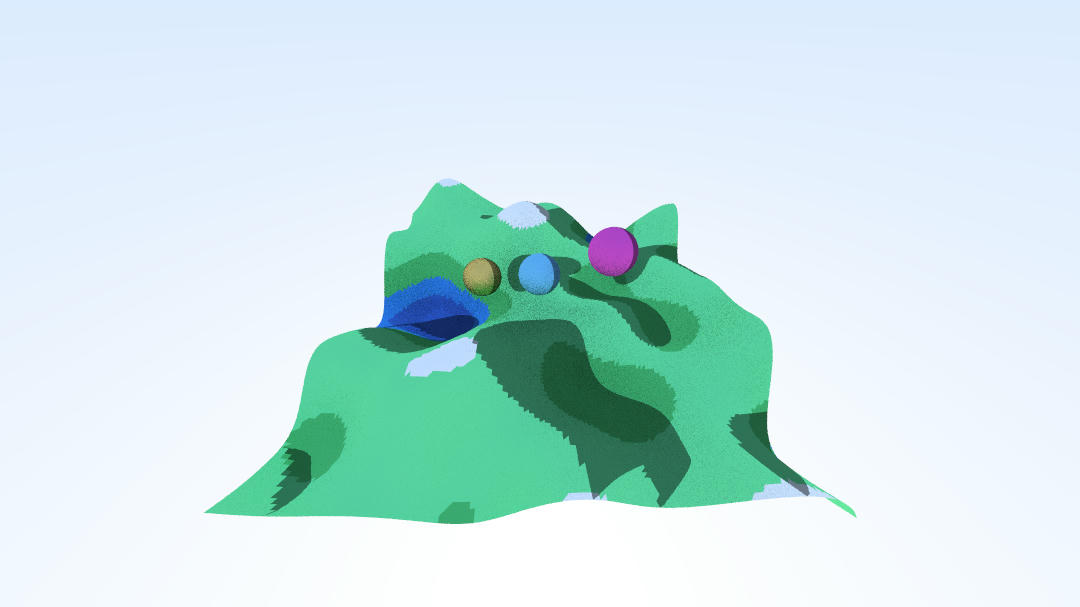
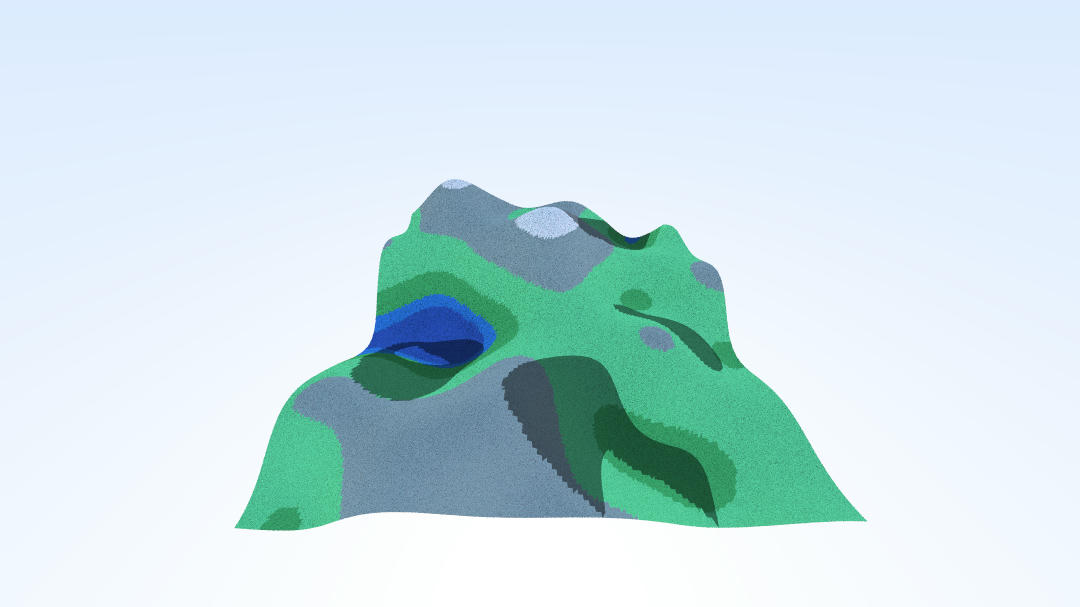
Added mirrors and added example scene

Changed region(s): [[0.1833, 0.2965, 0.825, 0.8896]]

diff --git a/src/main.rs b/src/main.rs
@@ -5,10 +5,10 @@ use crate::hittables::Hittables;
 use std::time::Instant;
 use crate::camera::Camera;
 use crate::vec3::Vec3;
-use crate::axis_aligned_cube::Cube;
 use std::sync::{Mutex, Arc};
 use num_cpus;
 use std::thread;
+use crate::sphere::Sphere;
 
 mod camera;
 mod hittable;
@@ -80,7 +80,7 @@ fn create_world(aspect_ratio: f64) ->  (Hittables, Camera) {
 
     let camera = camera::Camera::new(look_from, look_at, v_up, v_fov, aspect_ratio, aperture, focal_distance);
     let mut light_objects = vec![];
-    light_objects.push(Box::new(Vec3::new(0.0, -1.0, -1.8)));
+    light_objects.push(Box::new(Vec3::new(-1.0, -1.5, -3.5)));
 
     let mut world_objects: Vec<Box<dyn Hittable + Send + Sync + 'static>> = vec![];
     world_objects.push(Box::new(
@@ -129,6 +129,7 @@ fn create_world(aspect_ratio: f64) ->  (Hittables, Camera) {
             false
         )));
 
+    /*
     world_objects.push(Box::new(Cube::new(Vec3::new(-1.5,-2.0, -1.0),
                                           Vec3::new(-0.5, 1.0, -0.5),
                                           material::Material::Lambertian(Vec3::new(0.6, 0.6, 0.6))
@@ -137,7 +138,20 @@ fn create_world(aspect_ratio: f64) ->  (Hittables, Camera) {
                                           Vec3::new(0.2, 0.0, -1.0),
                                           material::Material::Lambertian(Vec3::new(0.6, 0.6, 0.6))
     )));
+    */
+    world_objects.push(Box::new(Sphere::new(
+        Vec3::new(-0.3, -1.0, -1.0),
+        0.5,
+        material::Material::Lambertian(Vec3::new(0.7, 0.1, 0.8)))));
 
+    world_objects.push(Box::new(Sphere::new(
+        Vec3::new(0.6, 0.0, -1.5),
+        0.5,
+        material::Material::Metal(Vec3::new(0.7, 0.6, 0.2), 1.0))));
+    world_objects.push(Box::new(Sphere::new(
+        Vec3::new(-0.9, 1.0, -1.2),
+        0.5,
+        material::Material::Mirror)));
 
 
     let world = Hittables {
@@ -265,10 +279,10 @@ fn main() {
     let using_multithreading = true;
 
     let aspect_ratio = 16.0 / 9.0;
-    let image_width = 400;
+    let image_width = 1080;
     let image_height = (image_width as f64 / aspect_ratio) as i32;
-    let samples_per_pixel = 30;
-    let max_depth = 40;
+    let samples_per_pixel = 50;
+    let max_depth = 50;
 
     let (world, camera) =  if testing_scene { create_world(aspect_ratio) } else { create_procedural_world(aspect_ratio) };
 

diff --git a/src/axis_aligned_cube.rs b/src/axis_aligned_cube.rs
@@ -24,17 +24,17 @@ impl Cube {
 
         let mut squares_ = vec![];
         //Front
-        squares_.push(Rectangle::new( bottom_front_left, bottom_front_right, top_front_left,top_front_right, mat, false));
+        squares_.push(Rectangle::new( bottom_front_left, bottom_front_right, top_front_left,top_front_right, mat, true));
         //Back
-        squares_.push(Rectangle::new( bottom_back_left, bottom_back_right, top_back_left,top_back_right, mat, false));
+        squares_.push(Rectangle::new( bottom_back_left, bottom_back_right, top_back_left,top_back_right, mat, true));
         //Top
-        squares_.push(Rectangle::new(top_front_left, top_front_right, top_back_left, top_back_right, mat, false));
+        squares_.push(Rectangle::new(top_front_left, top_front_right, top_back_right , top_back_left, mat, false));
         //Bottom
-        squares_.push(Rectangle::new(bottom_front_left, bottom_front_right, bottom_back_left, bottom_back_right, mat, false));
+        squares_.push(Rectangle::new(bottom_front_left, bottom_front_right, bottom_back_left, bottom_back_right, mat, true));
         //Left
-        squares_.push(Rectangle::new(bottom_back_left, bottom_front_left, top_back_left, top_front_left, mat, false));
+        squares_.push(Rectangle::new(bottom_back_left, bottom_front_left, top_back_left, top_front_left, mat, true));
         //Right
-        squares_.push(Rectangle::new(top_back_right, bottom_back_right, top_front_right, bottom_front_right, mat, false));
+        squares_.push(Rectangle::new(bottom_front_right, top_front_right, top_back_right, bottom_back_right  , mat, true));
 
         Cube {
             top_right: top_back_right,

diff --git a/src/material.rs b/src/material.rs
@@ -8,6 +8,7 @@ pub enum Material {
     Lambertian(Vec3),
     Metal(Vec3, f64),
     Dielectric(f64),
+    Mirror,
 }
 
 pub fn scatter(ray: Ray, rec: HitRecord, color: &mut Vec3, material: Material) -> Option<Ray> {
@@ -15,6 +16,7 @@ pub fn scatter(ray: Ray, rec: HitRecord, color: &mut Vec3, material: Material) -
         Material::Lambertian(col) => lambertian_scatter(ray, rec, color, col),
         Material::Metal(col, fuzz) => metal_scatter(ray, rec, color, col, fuzz),
         Material::Dielectric(refractive_index) => dielectric_scatter(ray, rec, color, refractive_index),
+        Material::Mirror => mirror_scatter(ray, rec, color),
     }
 }
 
@@ -64,6 +66,20 @@ fn metal_scatter(
     color.clone_from(&material_color);
     if scattered.direction().dot(rec.normal.unwrap()) > 0.0 {
         Some(scattered)
+    } else {
+        None
+    }
+}
+
+fn mirror_scatter(
+    ray: Ray,
+    rec: HitRecord,
+    color: &mut Vec3,
+) -> Option<Ray> {
+    let reflected = Ray::new(rec.p.unwrap(), reflect(ray.direction().unit_vector(), rec.normal.unwrap()));
+    color.clone_from(&Vec3::new(1.0, 1.0, 1.0));
+    if reflected.direction().dot(rec.normal.unwrap()) > 0.0 {
+        Some(reflected)
     } else {
         None
     }
